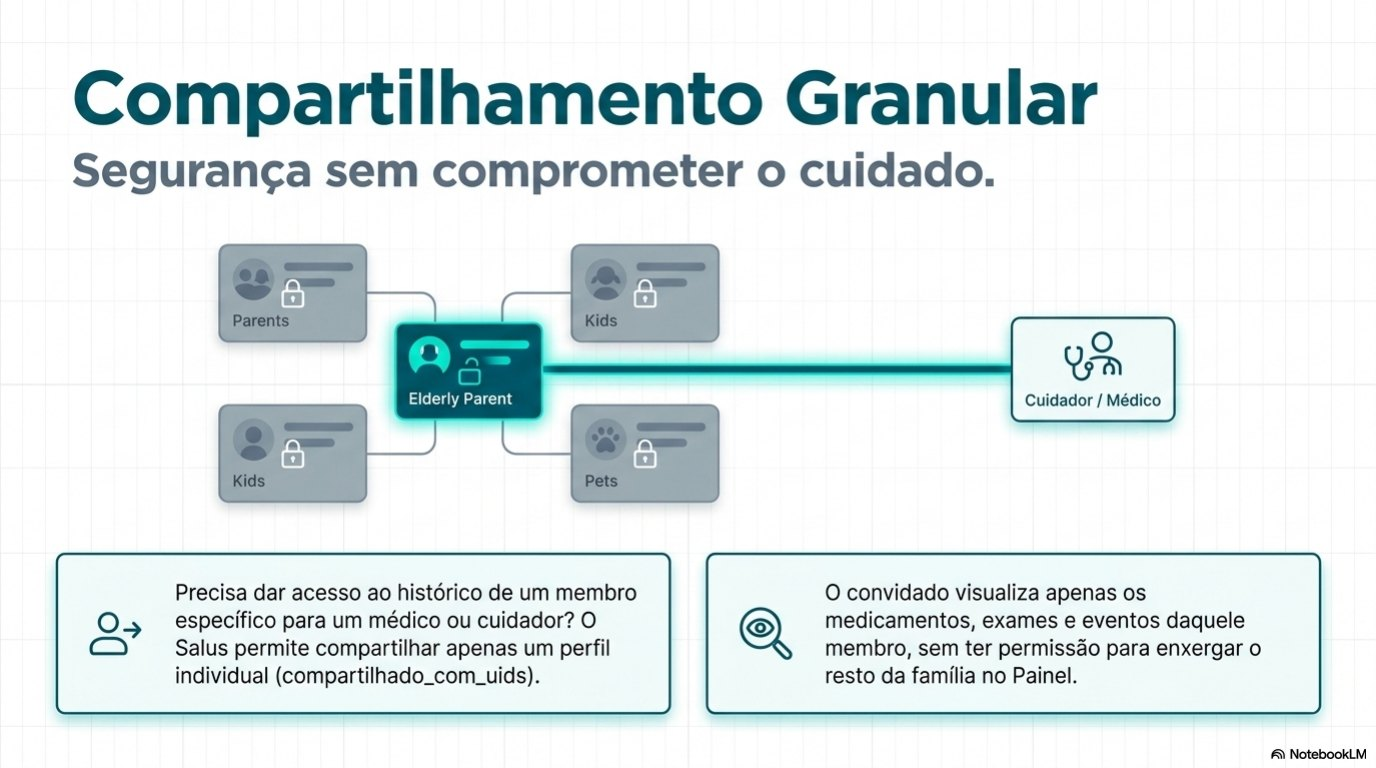
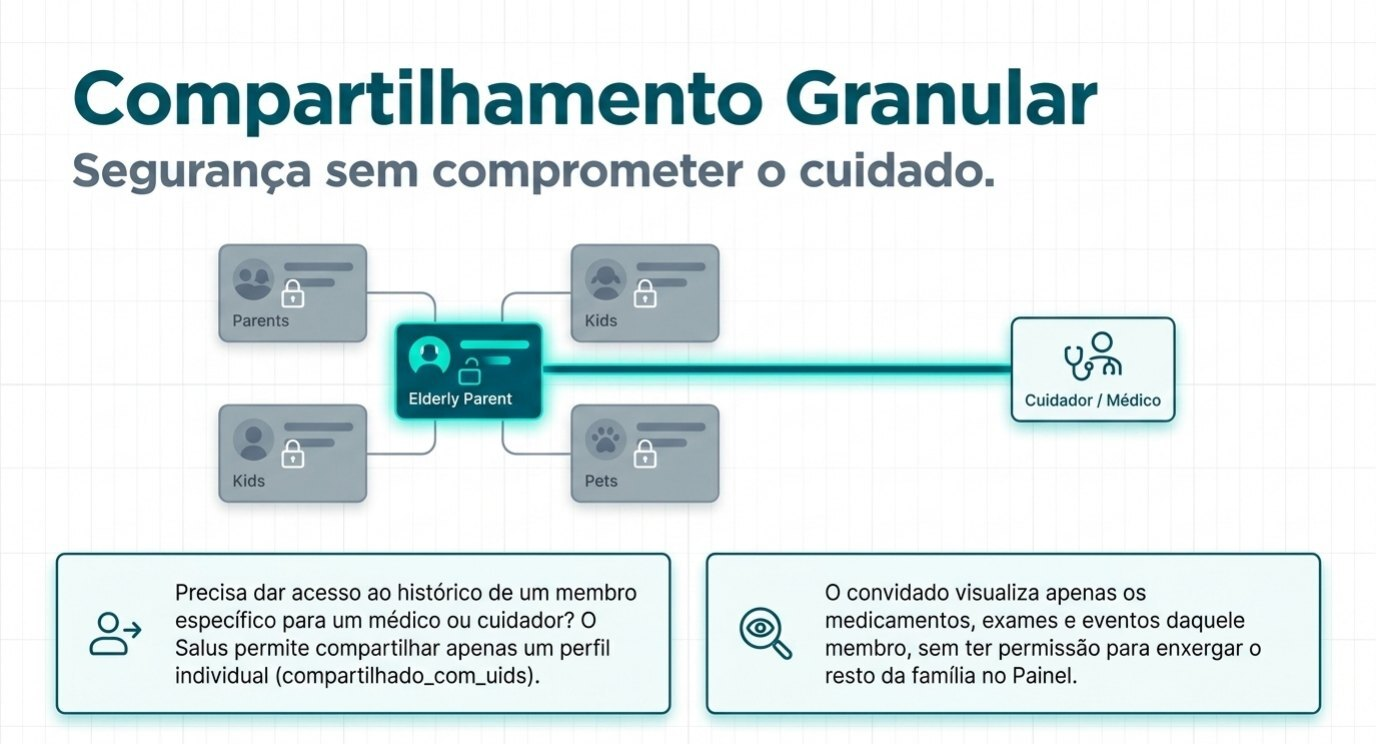
chore: update tutorial page images and adjust image height aspect ratio to 744px

Changed region(s): [[0.0312, 0.3091, 1.0, 0.9892], [0.0312, 0.0927, 0.8125, 0.2782]]

diff --git a/app/src/telas/Tutorial/index.tsx b/app/src/telas/Tutorial/index.tsx
@@ -37,7 +37,7 @@ export function Tutorial() {
                 src={`/tutorial/pagina-${numero}.jpg`}
                 alt={`Tutorial do Salus — página ${pagina} de ${TOTAL_DE_PAGINAS}`}
                 width={1376}
-                height={768}
+                height={744}
                 loading={pagina <= 2 ? 'eager' : 'lazy'}
                 decoding="async"
                 className="block w-full h-auto"
